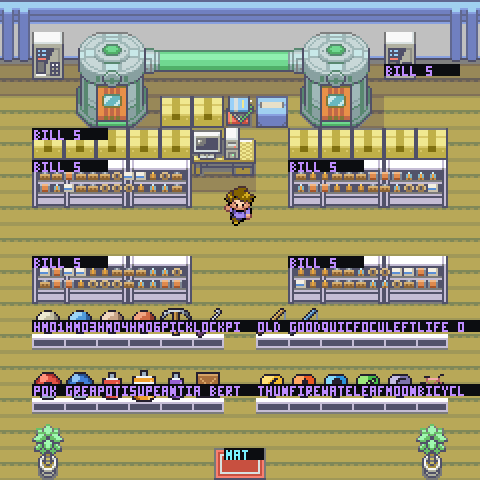
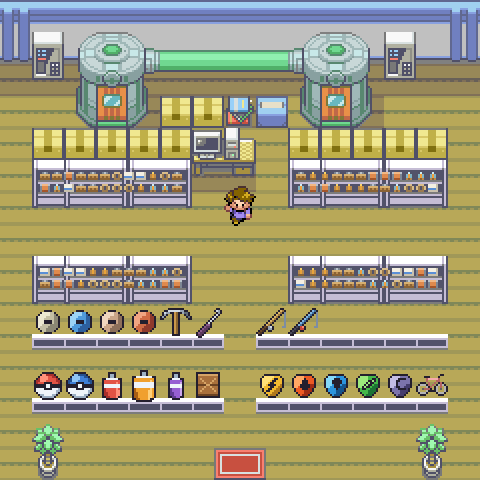
Repel screens: the cottage before, and how each picture was made

diff --git a/docs/screens/repel/README.md b/docs/screens/repel/README.md
@@ -1,0 +1,19 @@
+# The Repel
+
+FireRed's Repel, bartered at Bill's for one lamp oil and sprayed from the raid
+pack: for 100 steps, wild Pokémon weaker than the lead keep away
+(`src/game/world/repel.ts`).
+
+- `pack-before-spray.png`, `pack-after-spray.png`, `pack-second-press.png`: the
+  raid pack in a real raid (dev server, `?testmode=1`, deployed with
+  `level: 20, stash: ['repel:3'], pack: ['repel:2']` through
+  `tools/playtest/deploy.mjs`), before the Repel's row is pressed, after it
+  (the line at the foot of the pack), and a second press while it still works,
+  which is refused and keeps the can. DOM screens draw the same in test mode.
+- `cottage-before.png`, `cottage-after.png`: Bill's cottage with every tier open
+  (`npx vite-node tools/base/renderBase.mts -- out.png 2 --room=bills-cottage
+  --traded=500 --spent=5200`). The back row now runs to the walls each side of
+  the aisle; the Repel stands at the end of his tools, beside the Lockpick.
+- `icon-beside-medicine.png`: the new icon (`scripts/draw-repel-icon.mjs`) at 8x,
+  beside the Potion, Super Potion and Antidote it shares a pack with. Teal, so
+  it is never the purple Antidote.
